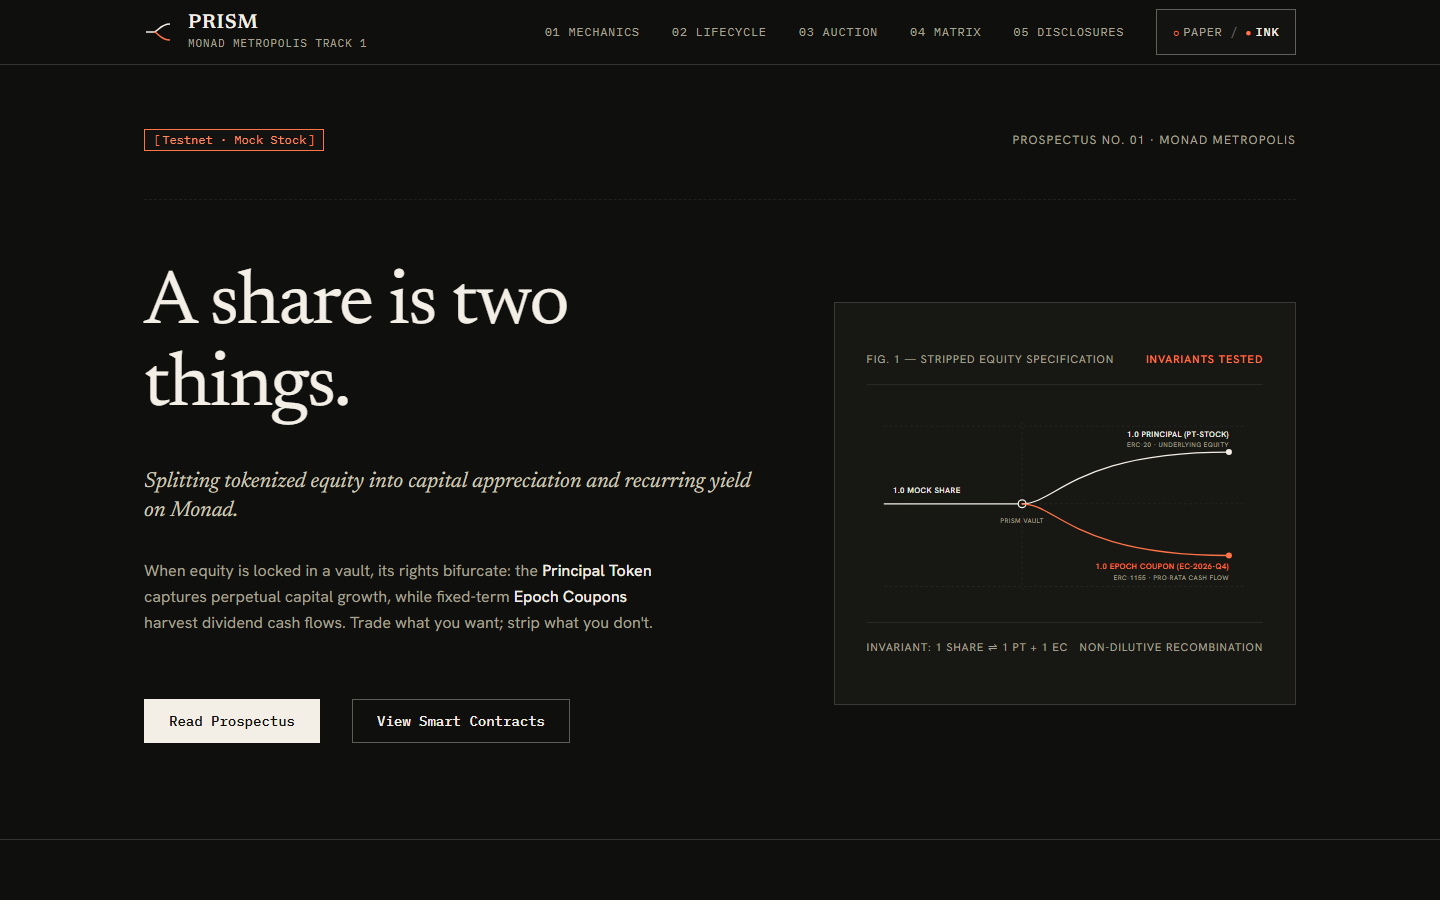
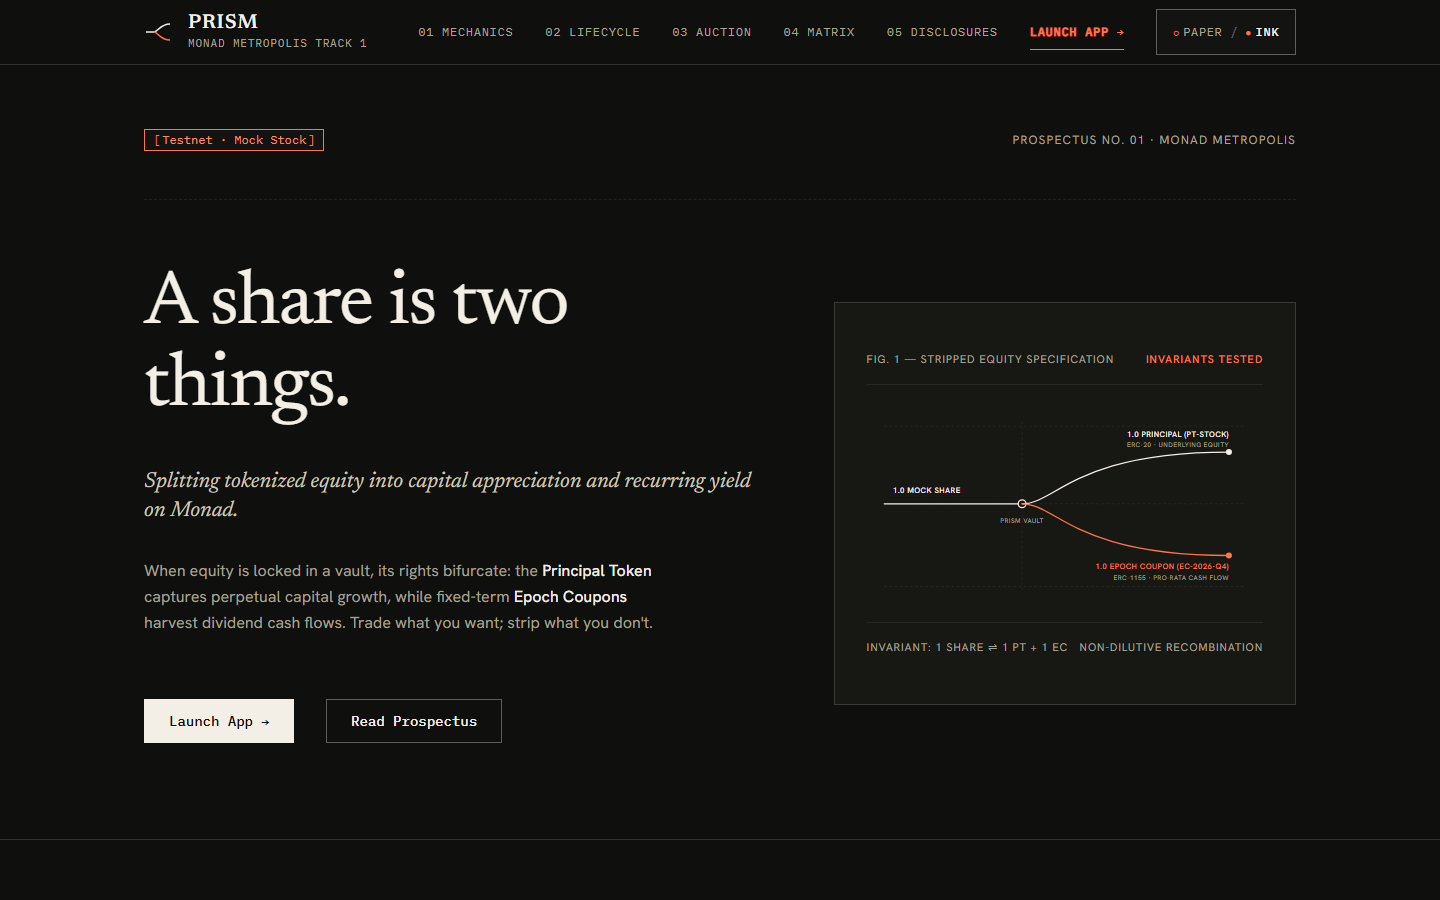
docs: add local run instructions, architecture specs, and app screenshots

diff --git a/web/src/chain/contracts.ts b/web/src/chain/contracts.ts
@@ -308,38 +308,37 @@ export async function fetchMarketAuctions(publicClient: PublicClient): Promise<A
 
   for (const id of ids) {
     try {
-      const data = (await auction.read.getAuction([BigInt(id)])) as [
-        Address,
-        bigint,
-        bigint,
-        bigint,
-        bigint,
-        bigint,
-        bigint,
-        bigint,
-        boolean
-      ];
+      const data = (await auction.read.getAuction([BigInt(id)])) as any;
+      const seller: Address = data.seller ?? data[0] ?? '0x0000000000000000000000000000000000000000';
+      const epochId = Number(data.epochId ?? data[1] ?? 1);
+      const remainingAmount: bigint = data.amount ?? data[2] ?? 0n;
+      const totalAmount: bigint = data.initialAmount ?? data[3] ?? 0n;
+      const startPrice: bigint = data.startPrice ?? data[4] ?? 0n;
+      const floorPrice: bigint = data.floorPrice ?? data[5] ?? 0n;
+      const startTime: bigint = data.startTime ?? data[6] ?? 0n;
+      const duration: bigint = data.duration ?? data[7] ?? 0n;
+      const active: boolean = Boolean(data.active ?? data[8]);
 
       let curPrice = 0n;
-      if (data[8]) {
+      if (active) {
         try {
           curPrice = (await auction.read.currentPrice([BigInt(id)])) as bigint;
         } catch {
-          curPrice = data[5]; // fallback floor
+          curPrice = floorPrice;
         }
       }
 
       list.push({
         auctionId: id,
-        seller: data[0],
-        epochId: Number(data[1]),
-        totalAmount: data[2],
-        remainingAmount: data[3],
-        startPrice: data[4],
-        floorPrice: data[5],
-        startTime: data[6],
-        duration: data[7],
-        active: data[8],
+        seller,
+        epochId,
+        totalAmount,
+        remainingAmount,
+        startPrice,
+        floorPrice,
+        startTime,
+        duration,
+        active,
         currentPrice: curPrice,
       });
     } catch {

diff --git a/web/src/app/context/AppContext.tsx b/web/src/app/context/AppContext.tsx
@@ -70,7 +70,16 @@ const AppContext = createContext<AppContextType | undefined>(undefined);
 
 export const AppProvider: React.FC<{ children: React.ReactNode }> = ({ children }) => {
   const chainId = LOCAL_CHAIN_ID;
-  const [activeTab, setActiveTab] = useState<AppTab>('split');
+  const getInitialTab = (): AppTab => {
+    if (typeof window !== 'undefined') {
+      const hash = window.location.hash.toLowerCase();
+      if (hash.includes('market')) return 'market';
+      if (hash.includes('curve')) return 'curve';
+      if (hash.includes('portfolio')) return 'portfolio';
+    }
+    return 'split';
+  };
+  const [activeTab, setActiveTab] = useState<AppTab>(getInitialTab);
   const [activeAccountIndex, setActiveAccountIndex] = useState<number>(0);
   const [useInjected, setUseInjected] = useState<boolean>(false);
   const [injectedAddress, setInjectedAddress] = useState<Address | null>(null);

diff --git a/web/src/app/components/MarketScreen.tsx b/web/src/app/components/MarketScreen.tsx
@@ -283,7 +283,11 @@ export const MarketScreen: React.FC = () => {
                 const isSelected = activeAuction?.auctionId === a.auctionId;
                 const pctRemaining =
                   a.totalAmount > 0n ? Number((a.remainingAmount * 100n) / a.totalAmount) : 0;
-                const isSeller = a.seller.toLowerCase() === accountAddress.toLowerCase();
+                const isSeller = Boolean(
+                  a.seller &&
+                  accountAddress &&
+                  a.seller.toLowerCase() === accountAddress.toLowerCase()
+                );
 
                 return (
                   <article

diff --git a/web/src/app/components/AppHeader.tsx b/web/src/app/components/AppHeader.tsx
@@ -45,6 +45,7 @@ export const AppHeader: React.FC = () => {
           {tabs.map((t) => (
             <button
               key={t.id}
+              data-tab={t.id}
               type="button"
               className={`prism-app-header__tab font-mono ${activeTab === t.id ? 'prism-app-header__tab--active' : ''}`}
               onClick={() => setActiveTab(t.id)}

diff --git a/README.md b/README.md
@@ -206,11 +206,82 @@ The official prospectus landing page is located in [`web/`](file:///d:/Study/Hac
 
 Detailed design system tokens and component specs are documented in [`docs/DESIGN_SYSTEM.md`](file:///d:/Study/Hackthon/Metropolis(Monad)/prism/docs/DESIGN_SYSTEM.md).
 
-### Running the Web App Locally
+### Run Locally
+
+Run the complete Prism stack locally on an Anvil chain with 3 commands:
+
 ```bash
-cd web
-npm install
-npm run dev     # Starts local Vite development server
-npm run build   # Typechecks and builds production distribution
-npm test        # Runs Vitest unit & integration test suites
+# 1. Install dependencies
+npm --prefix web install
+
+# 2. Deploy contracts and seed epochs to local Anvil (spawns Anvil if not running)
+bash script/DeployLocal.sh    # On Windows: powershell -File script/DeployLocal.ps1
+
+# 3. Start local web application
+npm --prefix web run dev
 ```
+
+Visit `http://localhost:5173/` for the prospectus and `http://localhost:5173/#/app` for the live trading application.
+
+To run the automated end-to-end integration lifecycle against local Anvil:
+```bash
+node web/scripts/e2e-local.mjs
+```
+
+### Local Architecture
+
+```
+┌────────────────────────────────────────────────────────┐
+│             Prism Web Application (Vite)               │
+│                                                        │
+│  Route /#/     : Prospectus Landing Page               │
+│  Route /#/app  : Working Terminal (Chain ID 31337)     │
+│  - Split & Redeem (Deposit stock, Mint PT & EC)       │
+│  - Dutch Market (1s live decay price ticker, buys)    │
+│  - Dividend Curve (Term structure, implied yield)     │
+│  - Portfolio & Claim (Pro-rata dividend settlement)   │
+│  - Simulation Drawer (Faucet mint, declare dividend)  │
+└───────────────────────────┬────────────────────────────┘
+                            │ Viem RPC & Event Indexing
+                            ▼
+┌────────────────────────────────────────────────────────┐
+│             Local Anvil Node (Chain 31337)             │
+│                                                        │
+│  Contracts:                                            │
+│  - PrismVault (Collateral lock, PT & EC minting)       │
+│  - PrismAuction (Dutch auctions, mulDiv ceil math)     │
+│  - PrincipalToken (ERC-20 capital leg)                 │
+│  - EpochCoupon (ERC-1155 dividend claim vouchers)      │
+│  - MockStock & MockUSDC (Test tokens)                  │
+│  - MockDividendSource (Oracle corporate action fixture)│
+└────────────────────────────────────────────────────────┘
+```
+
+- **Local Chain (Anvil 31337)**: Runs an instant, zero-cost Ethereum-compatible EVM node at `http://127.0.0.1:8545`.
+- **Event-Driven Indexing**: Instead of modifying immutable contracts to add gas-heavy getters, the frontend uses Viem's `publicClient.getLogs` over `AuctionCreated` and `EpochFunded` events to reconstruct market order books dynamically.
+- **In-Memory Actor Switcher**: Switch between Anvil's standard deterministic accounts (Deployer/Treasury, Alice, Bob) instantly to test bilateral trading, liquidity seeding, and dividend distributions with zero browser wallet setup required. Injected browser wallets (Rabby, MetaMask) remain fully supported.
+- **Strict Financial Settlement**: The Dutch auction uses `Math.mulDiv` rounding up (`Math.Rounding.Ceil`) so buyers never underpay for fractional coupons, verified by invariant and fuzz tests.
+
+---
+
+## 10. Application Screenshots
+
+### Prospectus Landing Page (Route `#/`)
+| Dark Mode (`ink`) | Light Mode (`paper`) |
+|---|---|
+| ![Landing Ink](docs/screenshots/landing-1440px-ink.png) | ![Landing Paper](docs/screenshots/landing-1440px-paper.png) |
+
+### Working Application (Route `#/app`)
+| 01. Split & Redeem (`ink`) | 02. Dutch Auction Market (`ink`) |
+|---|---|
+| ![Split & Redeem](docs/screenshots/app-split-1440px-ink.png) | ![Dutch Market](docs/screenshots/app-market-1440px-ink.png) |
+
+| 03. Dividend Yield Curve (`ink`) | Simulation Drawer Controls |
+|---|---|
+| ![Dividend Curve](docs/screenshots/app-curve-1440px-ink.png) | ![Anvil Controls Drawer](docs/screenshots/app-drawer-1440px-ink.png) |
+
+### Responsive Mobile (390px Viewport)
+| Mobile Prospectus | Mobile Portfolio & Claim |
+|---|---|
+| ![Mobile Landing](docs/screenshots/landing-390px-ink.png) | ![Mobile Portfolio](docs/screenshots/app-portfolio-390px-ink.png) |
+
